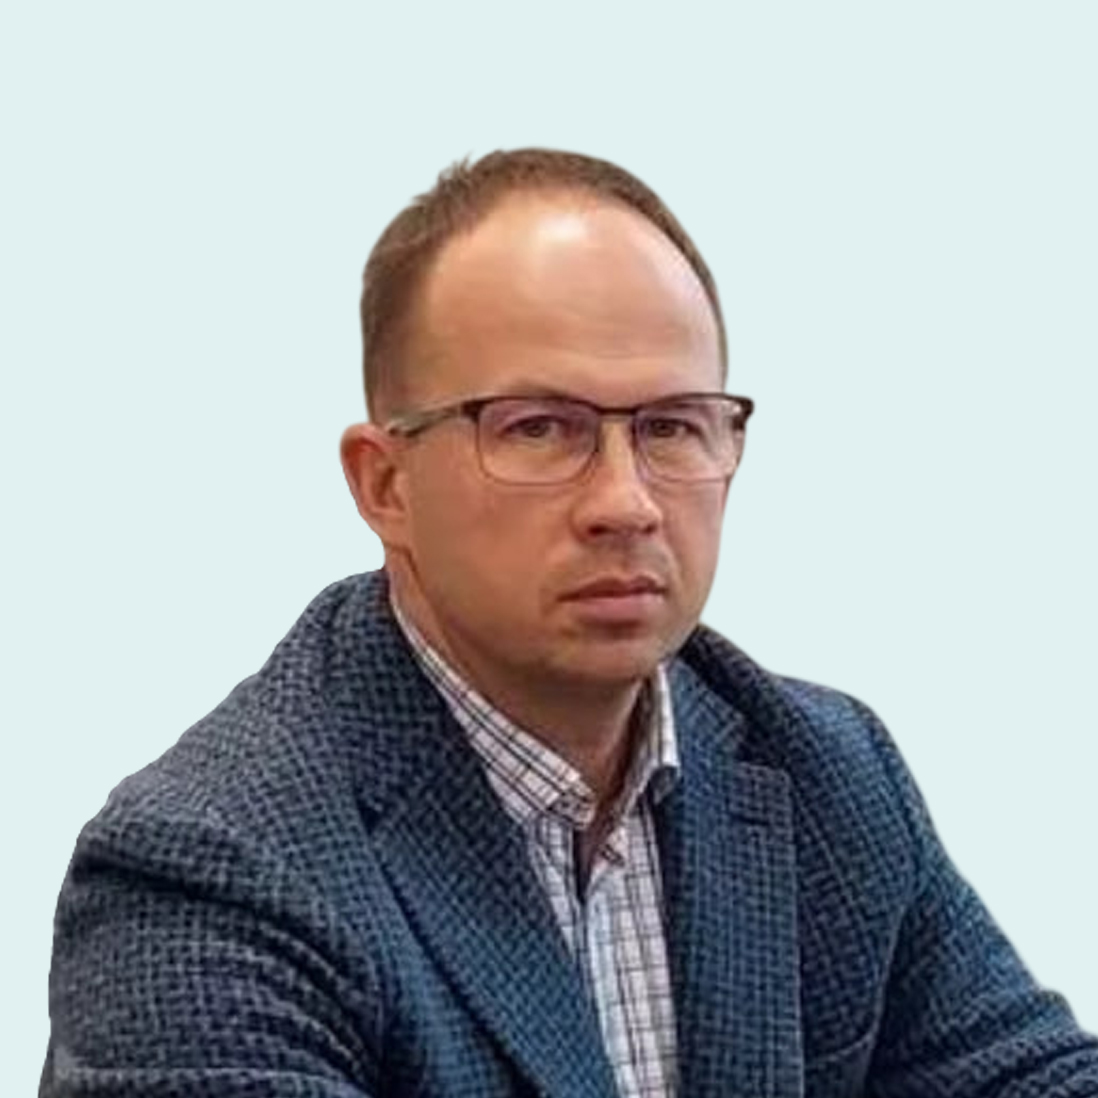
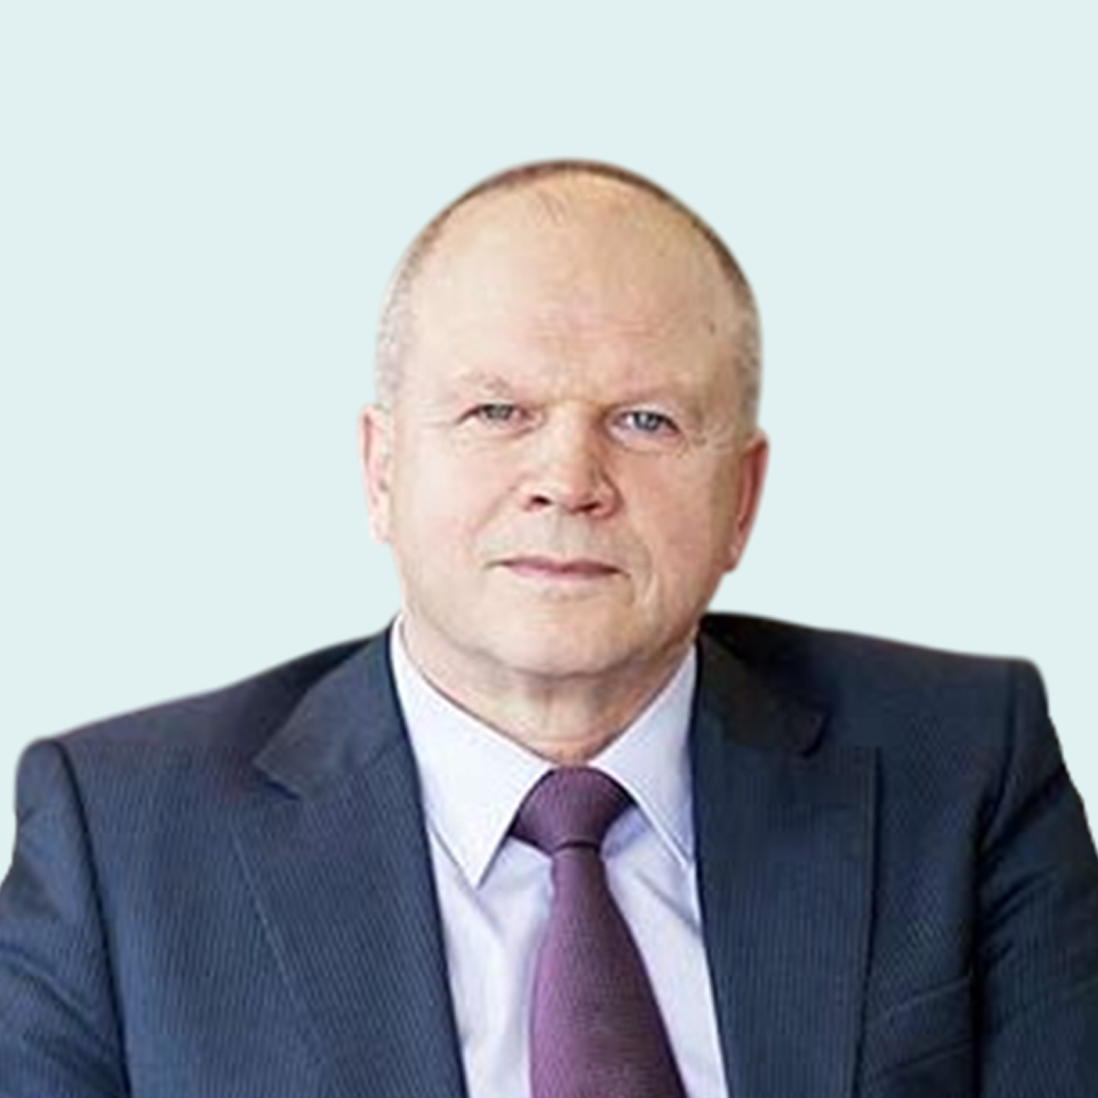
update files

diff --git a/web/data/about/mission.md b/web/data/about/mission.md
@@ -1,4 +1,4 @@
-# Миссия АНВУЗ Россия
+# Миссия АНВУЗ России
 
 <br>
 

diff --git a/web/data/about/association.md b/web/data/about/association.md
@@ -1,4 +1,4 @@
-# Об ассоцииации
+# Об Ассоцииации
 
 <br>
 
